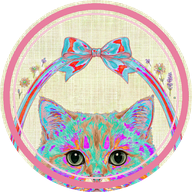
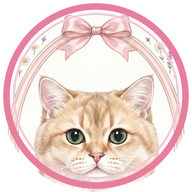
v1.4: 采用用户选定裁剪（2号·原色零处理），清理临时文件

diff --git a/sw.js b/sw.js
@@ -1,4 +1,4 @@
-const CACHE = 'neko-kcal-v4';
+const CACHE = 'neko-kcal-v5';
 const ASSETS = ['./index.html', './manifest.json', './icon-180.png', './icon-512.png', './avatar.png', './'];
 
 self.addEventListener('install', e => {
